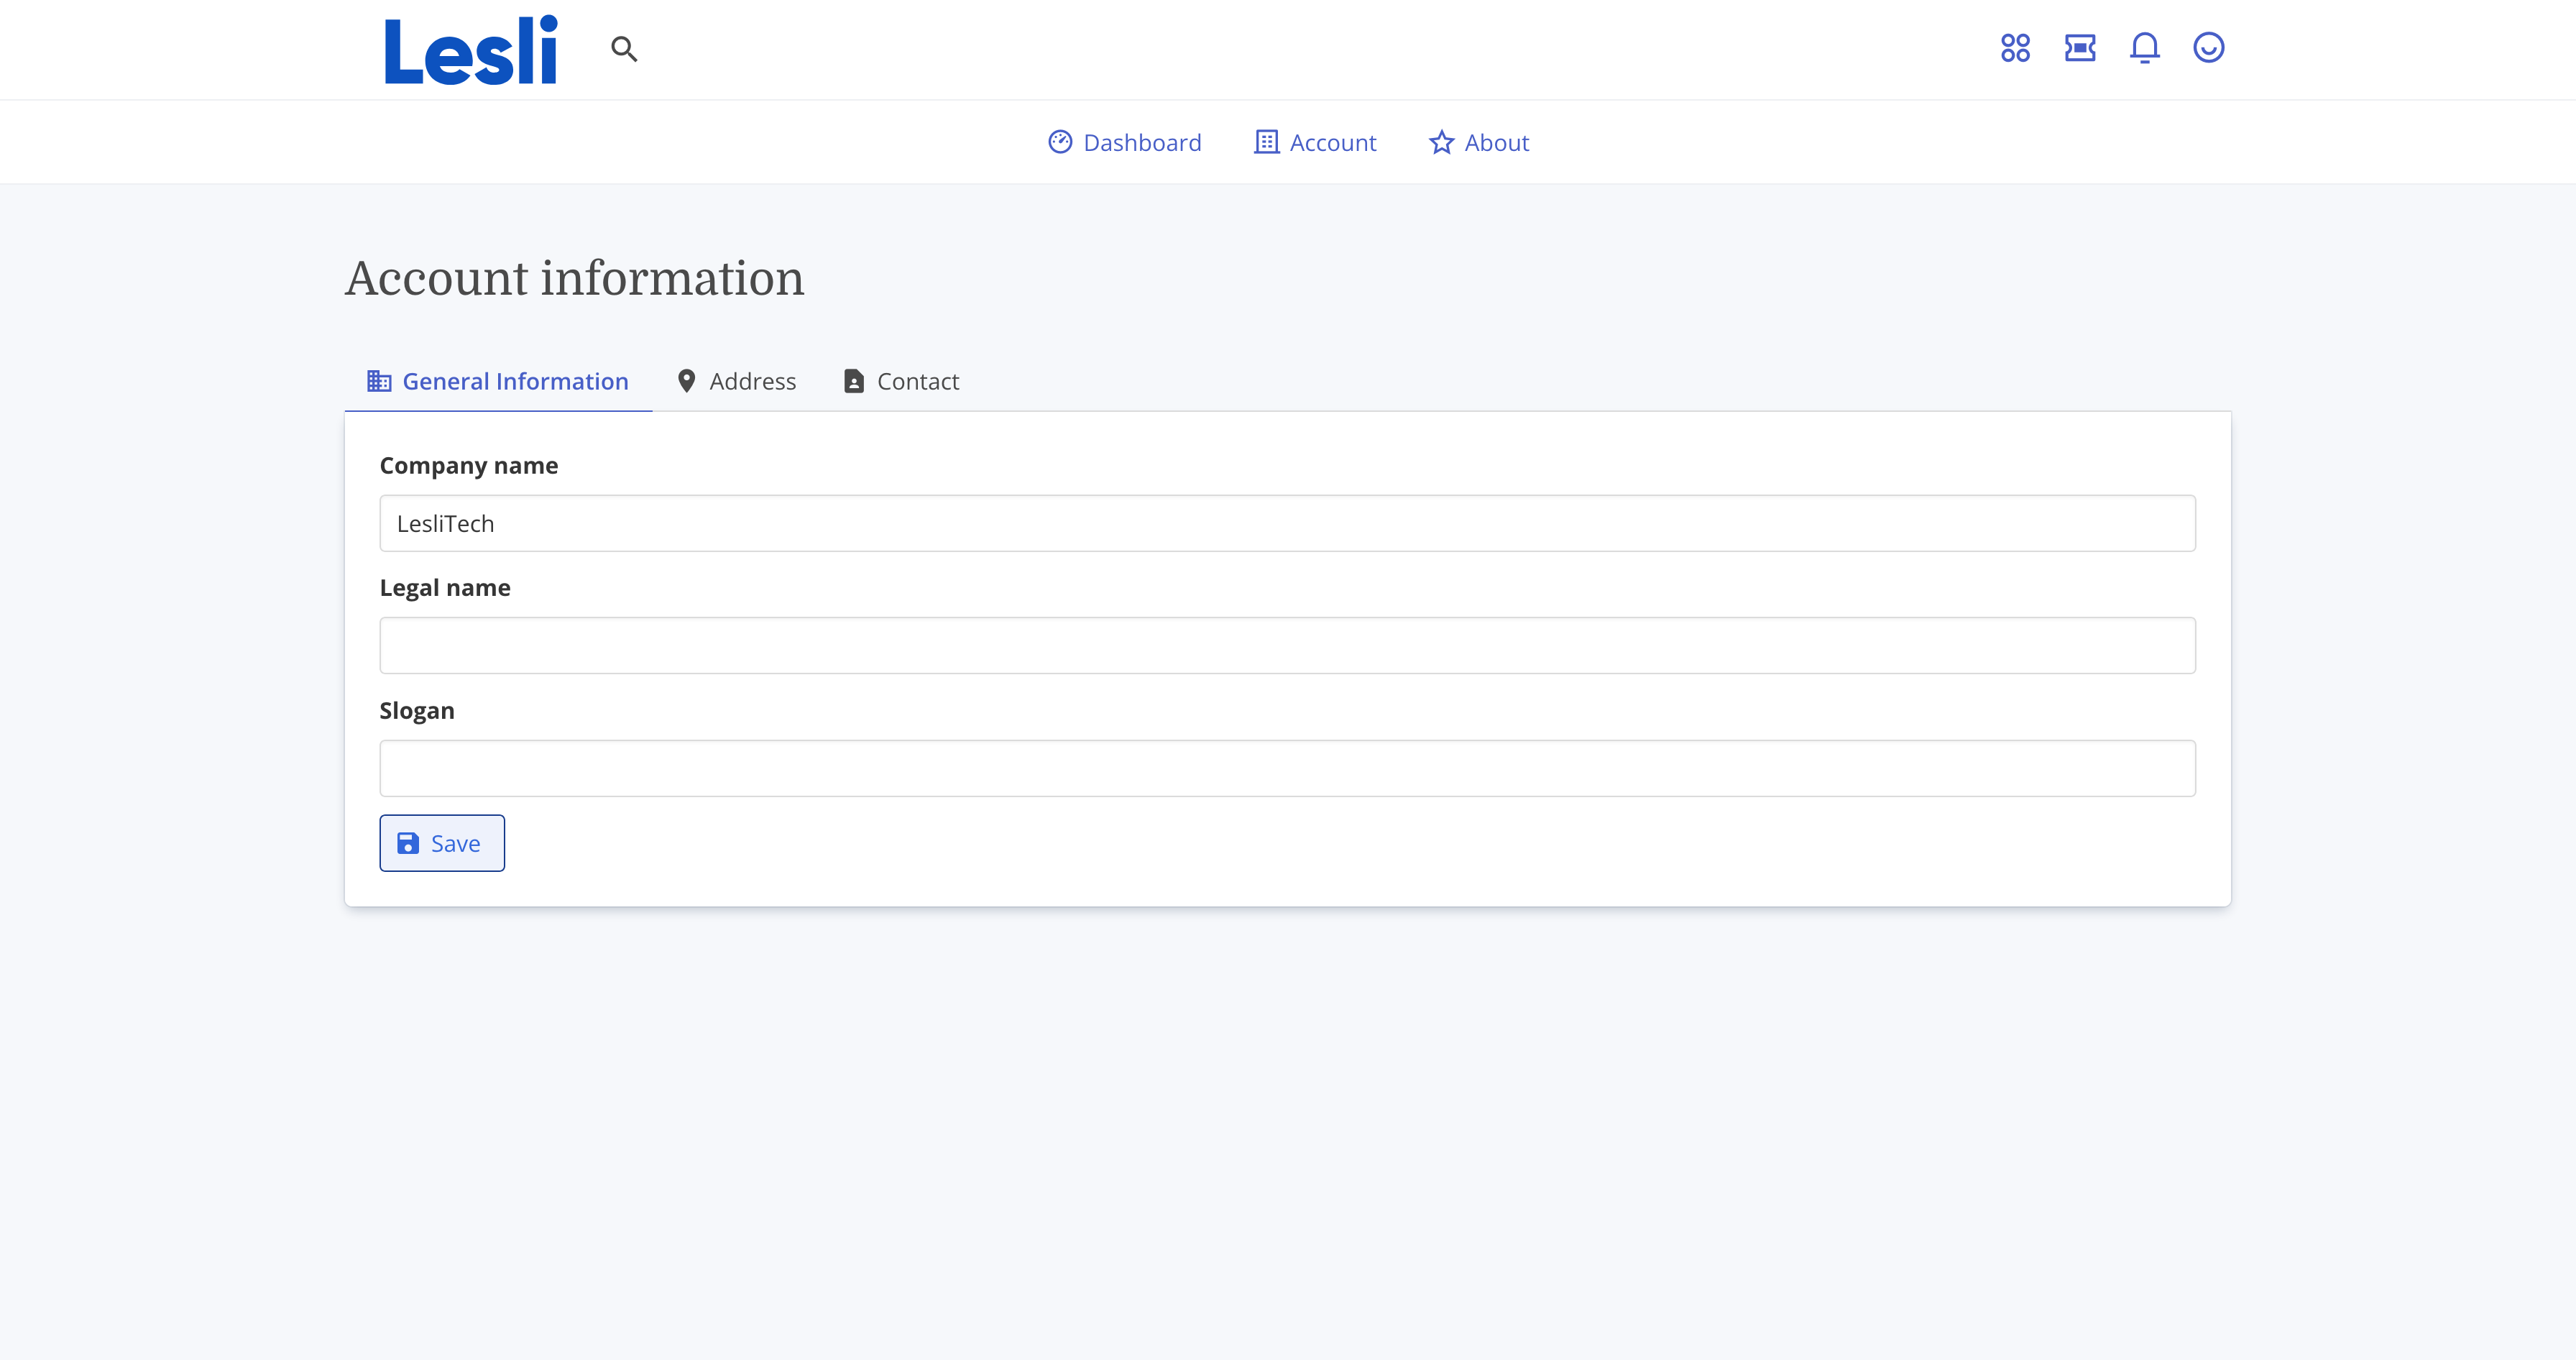
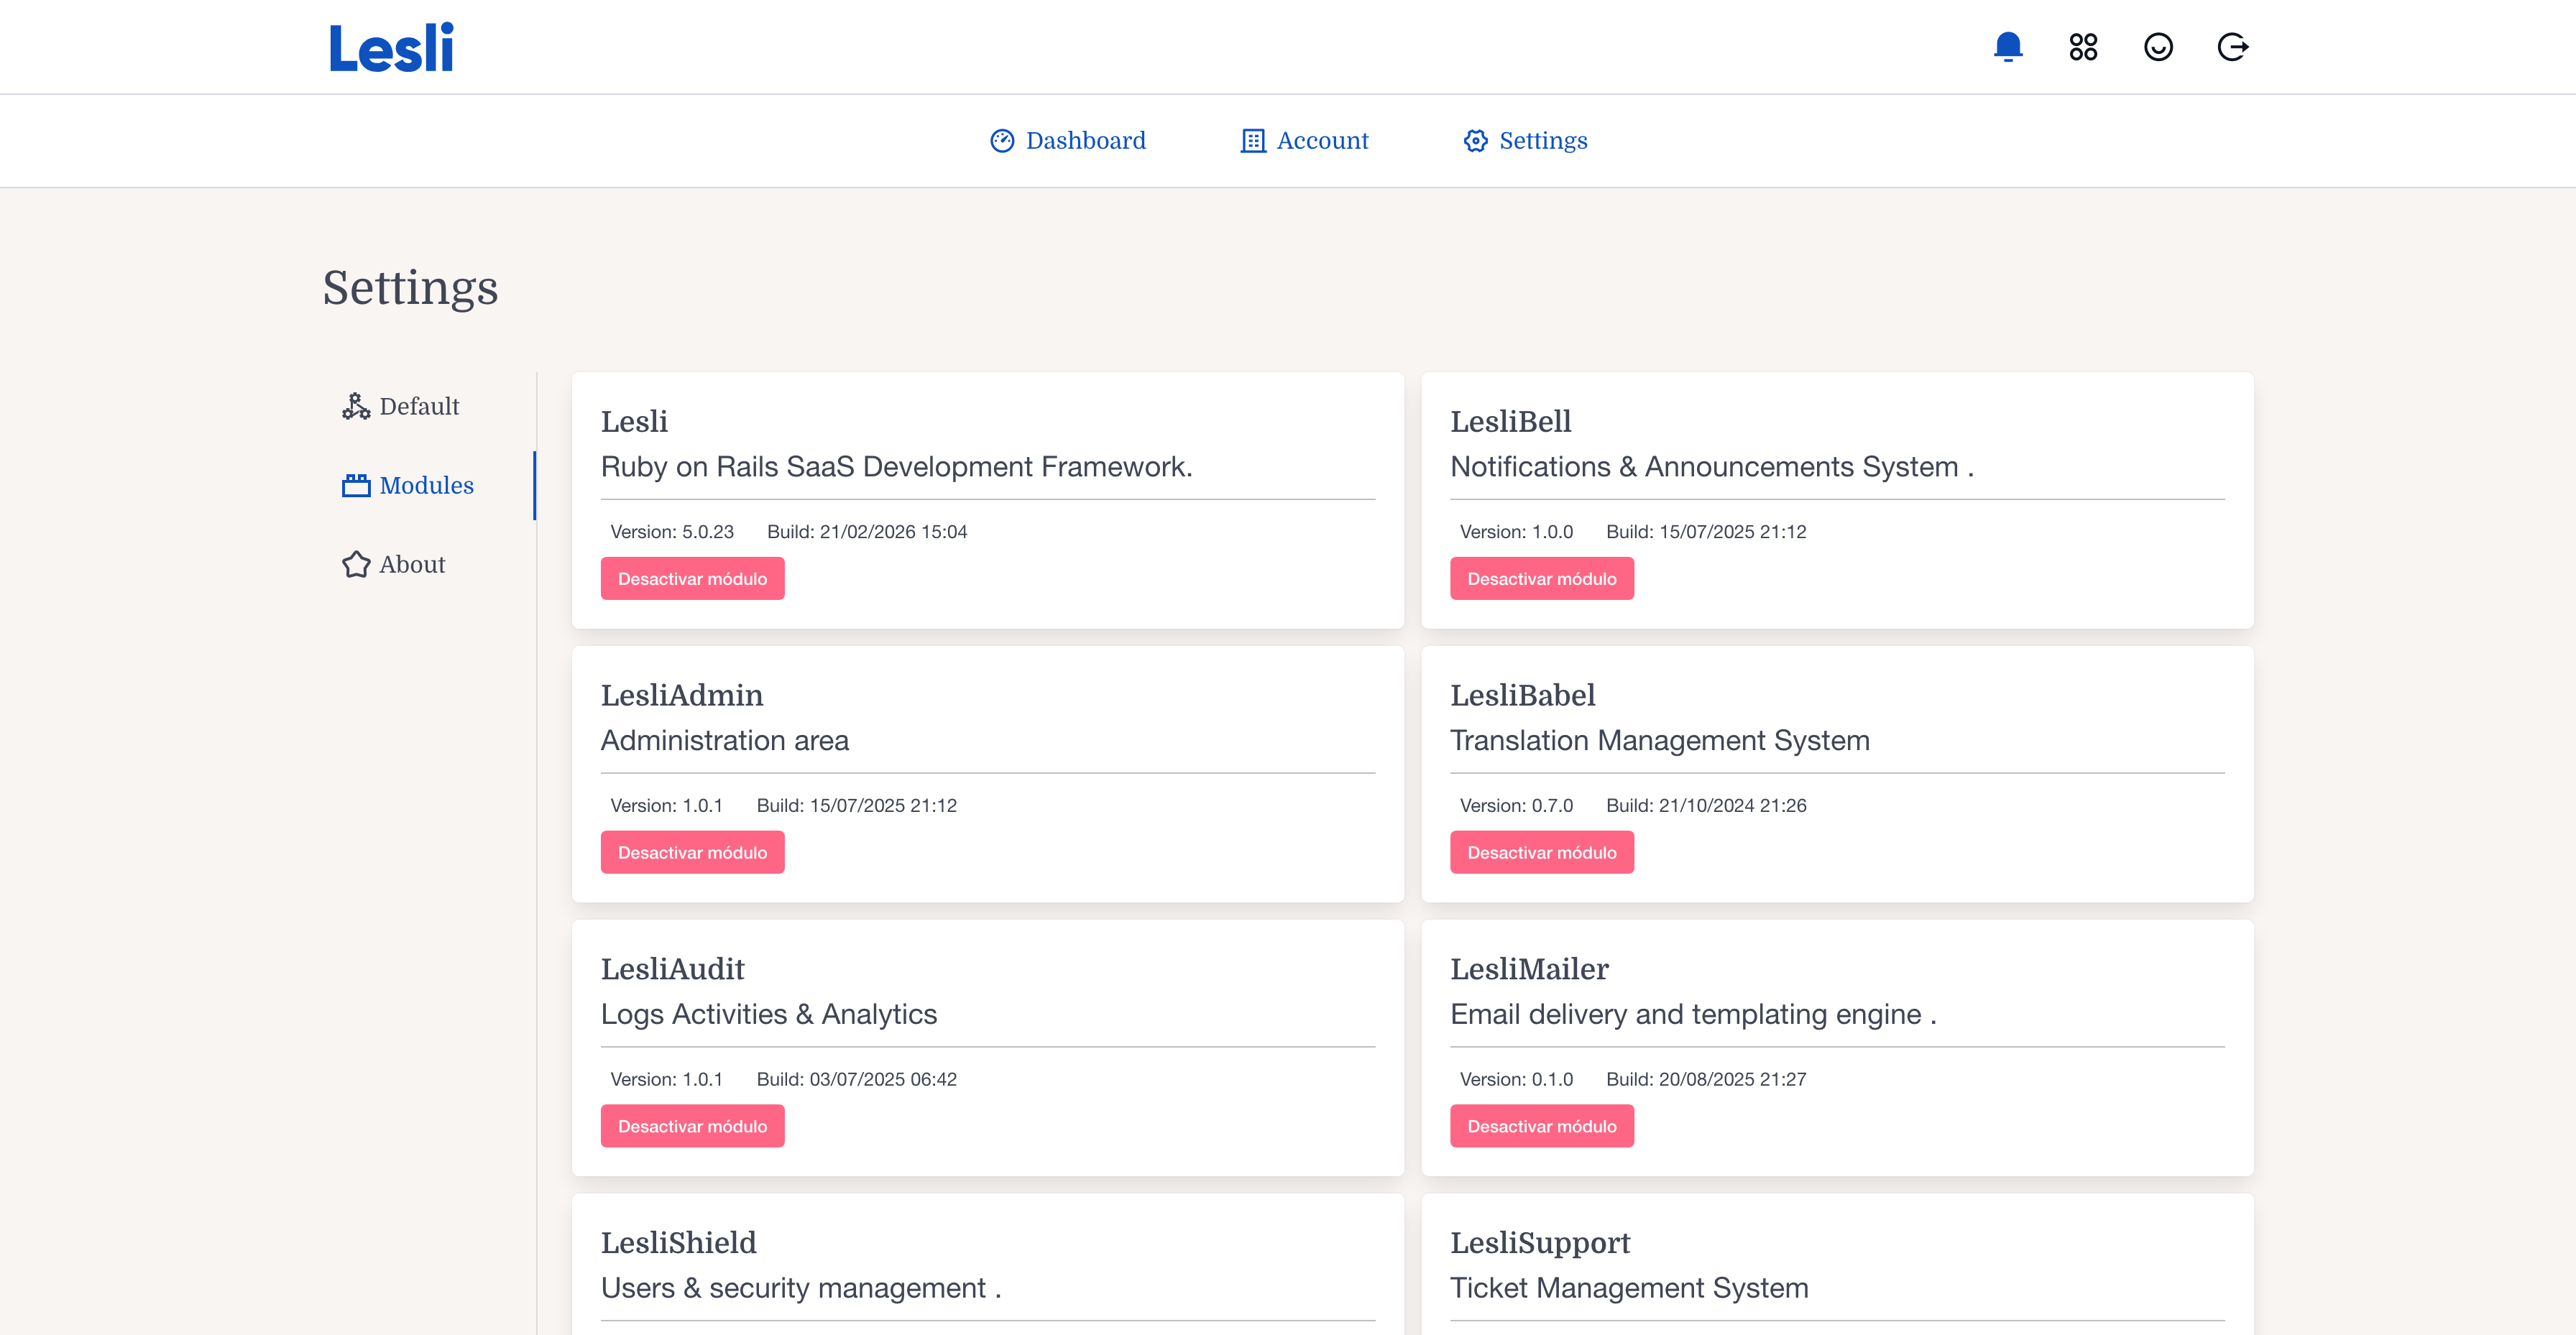
release new version

diff --git a/lib/lesli_admin/version.rb b/lib/lesli_admin/version.rb
@@ -1,4 +1,4 @@
 module LesliAdmin
-  VERSION = "1.0.1"
-  BUILD = "1752635550"
+  VERSION = "1.0.2"
+  BUILD = "1771710537"
 end

diff --git a/config/routes.rb b/config/routes.rb
@@ -32,7 +32,7 @@ Building a better future, one line of code at a time.
 
 LesliAdmin::Engine.routes.draw do
 
-    Lesli::Router.mount_dashboard_for(LesliAdmin)
+    Lesli::Router.mount_lesli_engine_routes(self)
 
     resource :account, only: [:show, :update]
 

diff --git a/readme.md b/readme.md
@@ -1,36 +1,42 @@
-<div align="center" class="documentation-header">
+<div align="center">
     <img width="100" alt="LesliAdmin logo" src="./app/assets/images/lesli_admin/admin-logo.svg" />
     <h3 align="center">Administration area for the Lesli Framework.</h3>
 </div>
 
-
 <br />
 <hr/>
 
-<div align="center" class="documentation-statics">
-    <a target="blank" href="https://rubygems.org/gems/lesli">
-        <img height="22" alt="Gem Version" src="https://badge.fury.io/rb/lesli.svg"/>
+<div align="center">
+    <a target="_blank" href="https://github.com/LesliTech/LesliAdmin/actions">
+        <img alt="Tests passing" src="https://img.shields.io/badge/Tests-passing-green?style=for-the-badge&logo=github">
     </a>
-    <a class="mx-2" href="https://codecov.io/github/LesliTech/Lesli"> 
-        <img height="22" src="https://codecov.io/github/LesliTech/Lesli/graph/badge.svg?token=2O12NENK5Y"/> 
+    <a target="_blank" href="https://rubygems.org/gems/lesli_admin">
+        <img alt="Gem Version" src="https://img.shields.io/gem/v/lesli_admin?style=for-the-badge&logo=ruby">
     </a>
-    <a href="https://codecov.io/github/LesliTech/LesliBabel"> 
-        <img height="22" src="https://sonarcloud.io/api/project_badges/measure?project=LesliTech_LesliBabel&metric=sqale_rating"/> 
+    <a target="_blank" href="https://codecov.io/github/LesliTech/LesliAdmin">
+        <img alt="Codecov" src="https://img.shields.io/codecov/c/github/LesliTech/LesliAdmin?style=for-the-badge&logo=codecov">
     </a>
 </div>
 
 <hr/>
 <br />
 
+<div align="center">
+    <img
+        style="width:100%;max-width:800px;border-radius:6px;"
+        alt="Lesli screenshot" src="./docs/images/screenshot.png" />
+</div>
 
-### Quick start
+<br />
+<hr/>
+<br />
+
+### Installation
 
 ```shell
 # Add LesliAdmin engine gem
 bundle add lesli_admin
-```
 
-```shell
 # Setup & initialize the database
 rake lesli:db:setup
 ```
@@ -42,26 +48,52 @@ Rails.application.routes.draw do
 end
 ```
 
+<br />
+<hr/>
+<br />
+
+### Development 
+
+```shell
+# clone the lesli repo inside your engine folder: RailsApp/engines
+git clone https://github.com/LesliTech/LesliAdmin.git
+
+# Load LesliAdmin as a Gem
+gem "lesli", path: "engines/LesliAdmin"
+
+# Install the necessary Gems to run LesliAdmin
+bundle install
+
+# Setup & initialize the database
+rake lesli:db:setup
+
+```
+
+<br />
+<hr/>
+<br />
+
+### Demo
+
+* [online demo](https://demo.lesli.dev/)
+* [docker demo](https://github.com/LesliTech/lesli-docker-demo)
+
 
 ### Documentation
-- [Account](https://www.lesli.dev/engines/admin/account)
-
-
-### Lesli Documentation
 * [website](https://www.lesli.dev/)
-* [documentation](https://www.lesli.dev/engines/admin/)
+* [documentation](https://www.lesli.dev/engines/admin)
 
 
-### Get in touch with Lesli
+### Connect with Lesli
 
+* [X: @LesliTech](https://x.com/LesliTech)
 * [Email: [email redacted]]([email redacted])
 * [Website: https://www.lesli.tech](https://www.lesli.tech)
-* [Twitter: @LesliTech](https://twitter.com/LesliTech)
 
 
 ### License
 -------
-Copyright (c) 2025, Lesli Technologies, S. A.
+Copyright (c) 2026, Lesli Technologies, S. A.
 
 This program is free software: you can redistribute it and/or modify
 it under the terms of the GNU General Public License as published by
@@ -76,10 +108,17 @@ GNU General Public License for more details.
 You should have received a copy of the GNU General Public License
 along with this program. If not, see http://www.gnu.org/licenses/.
 
+<br />
 <hr />
+<br />
 <br />
 
 <div align="center" class="has-text-centered">
     <img width="200" alt="Lesli logo" src="https://cdn.lesli.tech/lesli/brand/app-logo.svg" />
-    <h4 align="center" class="mt-0">Ruby on Rails SaaS Development Framework.</h4>
+    <h3 align="center" class="mt-0">
+        The Open-Source SaaS Development Framework for Ruby on Rails.
+    </h3>
 </div>
+
+<br />
+<br />